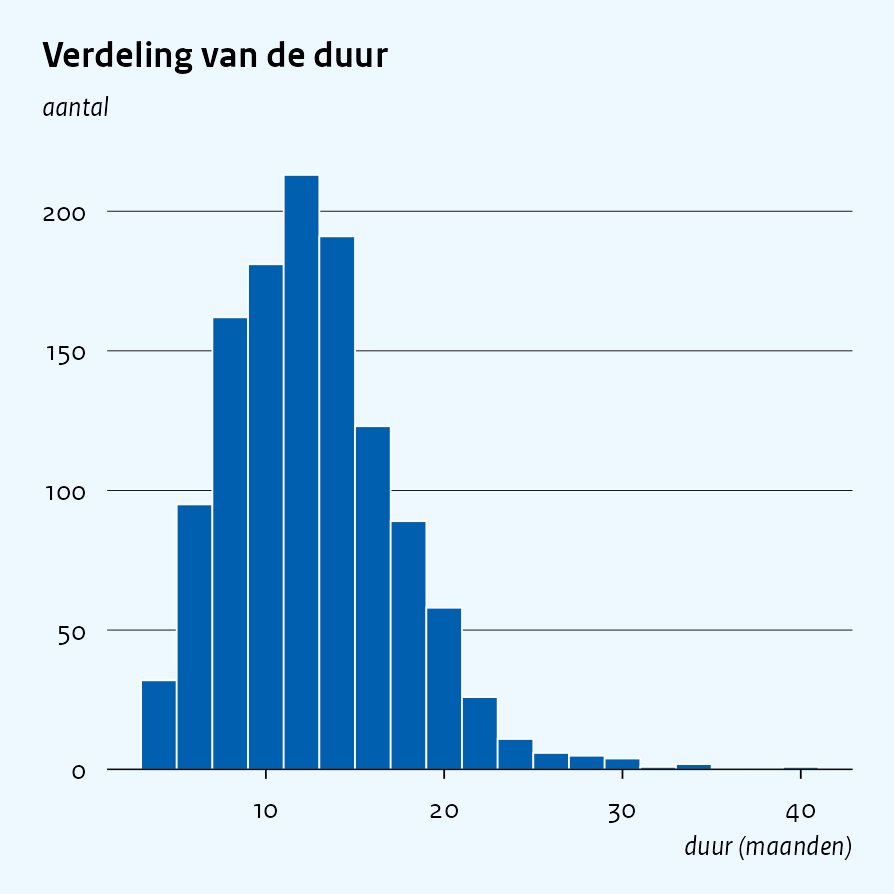
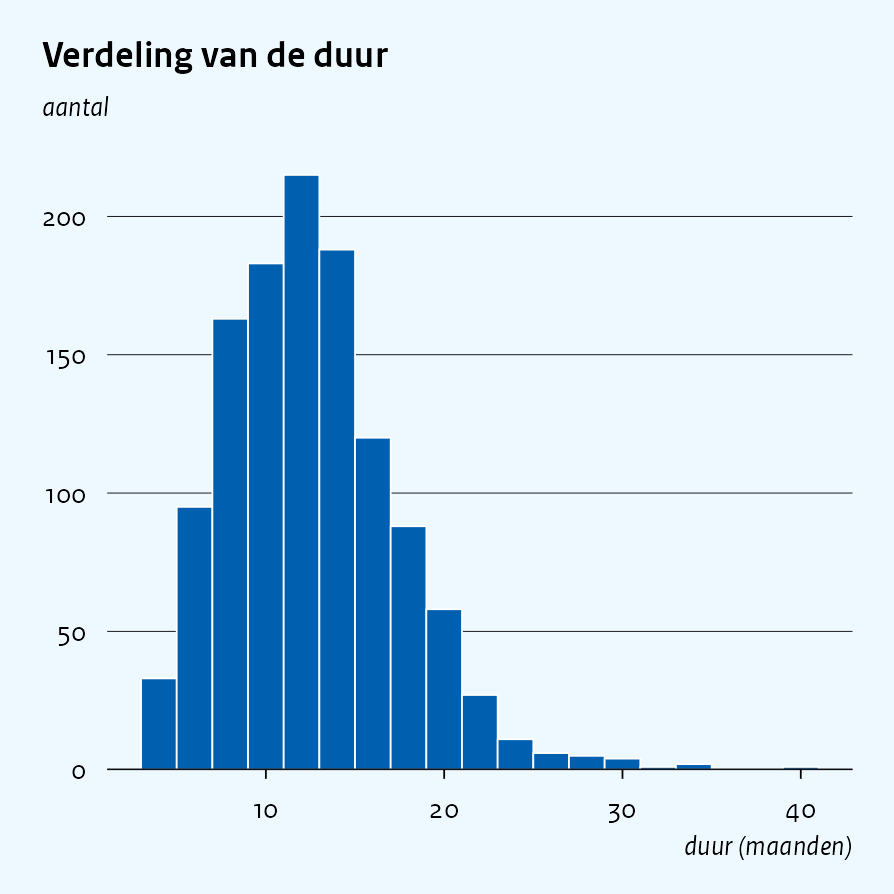
refactor: make cpb_area() internal, not part of the public API
cpb_area() is no longer exported: library(ggcpb) does not expose it,
and it is marked @keywords internal. The code, its help page, and its
examples are unchanged. It is still reachable internally --
cpb_import_csv()'s plot_type = "area" dispatches to it, and tests call
it directly -- and via ggcpb:::cpb_area().

Vignettes and the README no longer present it as a directly callable
wrapper. doc/*.md is re-rendered; some unrelated figure diffs in
chart-types come from the shared set.seed() stream shifting once the
area chunk's own random draw is removed. The donut examples there
switched to page = "full" so they stop triggering the half-page
warning.

diff --git a/doc/chart-types.md b/doc/chart-types.md
@@ -108,10 +108,9 @@ cpb_line(tarieven, x = leeftijd, y = tarief, colour = erfenis,
   value_limits = c(0, 40),
   title = "Voorkeurstarieven erfbelasting naar leeftijd",
   ylab  = "% gemiddeld voorkeurstarief")
-#> Warning: Removed 1 row containing missing values or values outside the scale range
-#> (`geom_line()`).
-#> Warning: Removed 1 row containing missing values or values outside the scale range
-#> (`geom_point()`).
+#> Warning: ggcpb: 1 value(s) fall outside the range implied by
+#> `value_limits`/`value_breaks`; cropped for display (via the plot's coordinate
+#> system) rather than dropped from it.
 ```
 
 <img src="chart-types_files/figure-gfm/line-points-1.png" alt="" width="350px" />
@@ -366,30 +365,6 @@ primary series already key on `colour`, so the secondary line joins that
 same scale, takes the next `index` position and shares a single legend –
 which is why all three labels name their axis.
 
-# Area charts
-
-`cpb_area()` draws the recurring share-of-total-over-time figure. With
-`pct_axis = TRUE` the y axis gets Dutch percentage labels:
-
-``` r
-bronnen <- c("gas", "elektriciteit", "warmte", "overig")
-mix <- expand_grid(jaar = 2018:2027,
-                   bron = factor(bronnen, levels = bronnen)) |>
-  mutate(ruw = runif(n(), 1, 10)) |>
-  mutate(aandeel = 100 * ruw / sum(ruw), .by = jaar)
-
-cpb_area(mix, x = jaar, y = aandeel, fill = bron,
-  pct_axis = TRUE,
-  title    = "Energiemix van huishoudens",
-  ylab     = "aandeel") +
-  scale_x_continuous(breaks = seq(2018, 2027, 3), minor_breaks = 2018:2027,
-                     guide = guide_axis(minor.ticks = TRUE))
-#> Scale for x is already present.
-#> Adding another scale for x, which will replace the existing scale.
-```
-
-<img src="chart-types_files/figure-gfm/area-1.png" alt="" width="350px" />
-
 # Donut charts
 
 `cpb_donut()` draws a single share-of-total breakdown as a ring instead
@@ -407,6 +382,7 @@ the plot directly, every donut here is written to a file with
 for a report:
 
 ``` r
+bronnen <- c("gas", "elektriciteit", "warmte", "overig")
 energie <- tibble(
   bron  = factor(bronnen, levels = bronnen),
   share = c(45, 30, 15, 10)
@@ -415,10 +391,10 @@ energie <- tibble(
 path <- tempfile(fileext = ".png")
 save_cpb(path, cpb_donut(energie, fill = bron, y = share,
   index = c(6, 5, 2, 4),
-  title = "Energiemix van huishoudens"), page = "half")
+  title = "Energiemix van huishoudens"), page = "full")
 ```
 
-<img src="chart-types_files/figure-gfm/donut-show-1.png" alt="" width="350px" />
+<img src="chart-types_files/figure-gfm/donut-show-1.png" alt="" width="700px" />
 
 With more wedges, printing the value on the wedge itself gets cramped
 for the thin slices. `label_style = "leader"` moves every value outside
@@ -441,10 +417,10 @@ path <- tempfile(fileext = ".png")
 save_cpb(path, cpb_donut(energie2, fill = bron, y = share,
   label_style = "leader",
   index = c(6, 4, 5, 1, 3, 2),
-  title = "Energiemix, met lijnlabels"), page = "half")
+  title = "Energiemix, met lijnlabels"), page = "full")
 ```
 
-<img src="chart-types_files/figure-gfm/donut-leader-show-1.png" alt="" width="350px" />
+<img src="chart-types_files/figure-gfm/donut-leader-show-1.png" alt="" width="700px" />
 
 # Quantile boxplots
 

diff --git a/doc/annotation.md b/doc/annotation.md
@@ -36,7 +36,7 @@ auto <- tibble(
 
 Time-series figures mark the forecast part of the axis with a
 translucent window and a label – pass `forecast_x` (the x value where
-the forecast starts) to `cpb_line()`, `cpb_col()` or `cpb_area()`, and
+the forecast starts) to `cpb_line()` or `cpb_col()`, and
 `forecast_label` to override the default `"raming"`. `cpb_line()` can
 additionally draw an uncertainty band from `ymin`/`ymax` columns:
 

diff --git a/doc/colours.md b/doc/colours.md
@@ -16,7 +16,7 @@ the argument name, which follows the aesthetic being coloured:
 - `colour_index` on the wrappers that map `colour` – `cpb_line()`,
   `cpb_scatter()`, `cpb_dot()`
 - `fill_index` on the wrappers that map `fill` – `cpb_col()`,
-  `cpb_area()`, `cpb_box()`, `cpb_hist()`, `cpb_map()`
+  `cpb_box()`, `cpb_hist()`, `cpb_map()`
 
 `color_index` is accepted wherever `colour_index` is.
 

diff --git a/README.md b/README.md
@@ -58,7 +58,7 @@ cpb_col(df, x = jaar, y = waarde, fill = groep,
   ylab  = "mld euro")
 ```
 
-The wrappers -- `cpb_line()`, `cpb_col()`, `cpb_area()`, `cpb_box()`,
+The wrappers -- `cpb_line()`, `cpb_col()`, `cpb_box()`,
 `cpb_scatter()`, `cpb_hist()` -- accept a data.frame or data.table
 plus tidy-eval column arguments,
 and apply `theme_cpb()` and a CPB scale: the published-figure look
